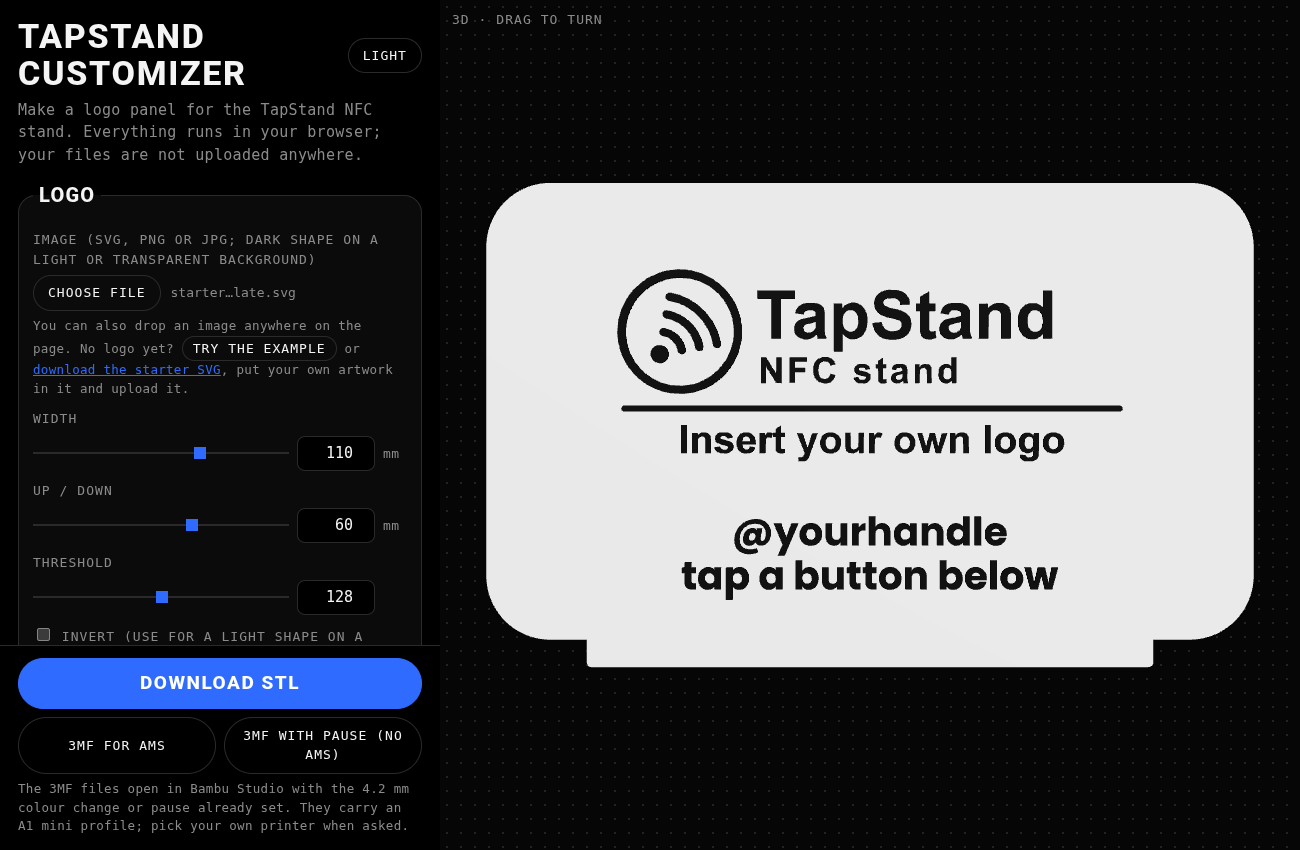
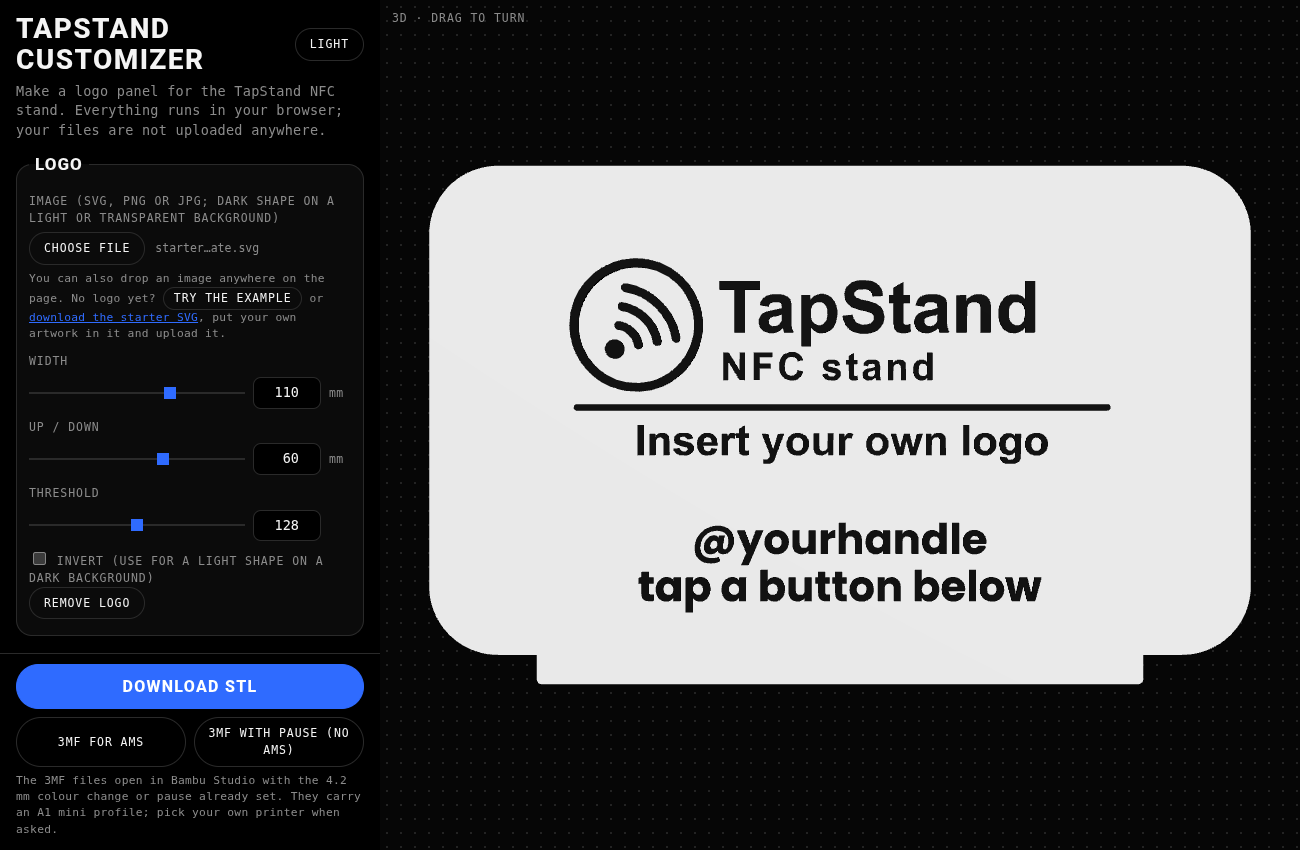
Smaller controls; corner ears on the panel 3MF so the corners do not lift

diff --git a/index.html b/index.html
@@ -16,29 +16,29 @@
   :root[data-theme=light] { color-scheme: light; --bg: #f4f4f1; --card: #fff; --line: #d8d8d3; --text: #0a0a0a; --muted: #6b6b6b;
           --accent: #1f5cff; --on-accent: #fff; --err: #c4001d; --warn: #8a5300; --scene: #8d949b; --dot: #7c838a; }   /* a grey scene, so a white panel shows */
   * { box-sizing: border-box; }
-  body { margin: 0; font: 15px/1.5 ui-monospace, 'SF Mono', Menlo, Consolas, monospace; letter-spacing: .02em; color: var(--text); background: var(--bg); }
+  body { margin: 0; font: 13.5px/1.45 ui-monospace, 'SF Mono', Menlo, Consolas, monospace; letter-spacing: .02em; color: var(--text); background: var(--bg); }
   /* Desktop: the form scrolls in its own cell; the bar with errors, warnings and Download stays under it. */
-  main { display: grid; grid-template: minmax(0, 1fr) auto / minmax(340px, 440px) 1fr; height: 100vh; height: 100dvh; }
-  form { padding: 18px 18px 0; overflow: auto; }
-  #bar { grid-area: 2 / 1; padding: 12px 18px 14px; background: var(--bg); border-top: 1px solid var(--line); max-height: 42vh; overflow: auto; }
+  main { display: grid; grid-template: minmax(0, 1fr) auto / minmax(300px, 380px) 1fr; height: 100vh; height: 100dvh; }
+  form { padding: 14px 16px 0; overflow: auto; }
+  #bar { grid-area: 2 / 1; padding: 10px 16px 12px; background: var(--bg); border-top: 1px solid var(--line); max-height: 42vh; overflow: auto; }
   #bar p, #bar ul { margin: 0; }
   #bar p:not(:empty), #bar ul:not(:empty) { margin-bottom: 8px; }
   .top { display: flex; align-items: center; justify-content: space-between; gap: 8px; }
   h1, legend, summary { font-family: Roboto, system-ui, sans-serif; text-transform: uppercase; }
-  h1 { font-size: 34px; font-weight: 800; letter-spacing: .05em; margin: 0; line-height: 1.1; }
+  h1 { font-size: 28px; font-weight: 800; letter-spacing: .05em; margin: 0; line-height: 1.1; }
   .intro { color: var(--muted); margin: 6px 0 0; }
   a { color: var(--accent); }
-  fieldset, details { border: 1px solid var(--line); border-radius: 18px; background: var(--card); margin: 14px 0; padding: 10px 14px 12px; }
-  legend { padding: 0 6px; font-size: 20px; font-weight: 800; letter-spacing: .06em; }
-  label { display: block; margin: 10px 0 0; font-size: 13px; text-transform: uppercase; letter-spacing: .08em; color: var(--muted); }
+  fieldset, details { border: 1px solid var(--line); border-radius: 16px; background: var(--card); margin: 12px 0; padding: 8px 12px 10px; }
+  legend { padding: 0 6px; font-size: 17px; font-weight: 800; letter-spacing: .06em; }
+  label { display: block; margin: 8px 0 0; font-size: 11.5px; text-transform: uppercase; letter-spacing: .08em; color: var(--muted); }
   input[type=text], select, textarea { display: block; width: 100%; margin-top: 4px; padding: 8px 10px; border-radius: 10px;
     border: 1px solid var(--line); background: var(--bg); color: var(--text); font: inherit; text-transform: none; letter-spacing: 0; }
   textarea { resize: vertical; }
   input:focus-visible, select:focus-visible, textarea:focus-visible, button:focus-visible { outline: 2px solid var(--accent); outline-offset: 1px; }
   /* a slider row: name, slider, mm box, unit */
-  .f { display: grid; grid-template-columns: 1fr 78px 24px; align-items: center; gap: 8px; margin-top: 4px; }
-  .f span { grid-column: 1 / -1; font-size: 13px; text-transform: uppercase; letter-spacing: .08em; color: var(--muted); margin-top: 6px; }
-  .f i { font-style: normal; color: var(--muted); font-size: 13px; }
+  .f { display: grid; grid-template-columns: 1fr 68px 22px; align-items: center; gap: 8px; margin-top: 4px; }
+  .f span { grid-column: 1 / -1; font-size: 11.5px; text-transform: uppercase; letter-spacing: .08em; color: var(--muted); margin-top: 6px; }
+  .f i { font-style: normal; color: var(--muted); font-size: 11.5px; }
   input[type=number] { width: 100%; padding: 5px 6px; border: 1px solid var(--line); border-radius: 8px; background: var(--bg); color: var(--text);
     font: inherit; text-align: right; font-variant-numeric: tabular-nums; }
   input[type=range] { -webkit-appearance: none; appearance: none; width: 100%; height: 18px; background: transparent; margin: 0; cursor: pointer; }
@@ -49,14 +49,14 @@
   input[type=checkbox] { accent-color: var(--accent); }
   input[type=file] { display: block; margin-top: 6px; max-width: 100%; color: var(--muted); font: inherit; text-transform: none; letter-spacing: 0; }
   /* Buttons are pills: the main download is filled, the rest are outlined. */
-  button, input[type=file]::file-selector-button { font: inherit; text-transform: uppercase; letter-spacing: .08em; font-size: 13px; color: var(--text);
+  button, input[type=file]::file-selector-button { font: inherit; text-transform: uppercase; letter-spacing: .08em; font-size: 11.5px; color: var(--text);
     background: transparent; border: 1px solid var(--line); border-radius: 999px; padding: 7px 14px; cursor: pointer; }
   input[type=file]::file-selector-button { margin-right: 10px; }
   button:hover:not(:disabled), input[type=file]::file-selector-button:hover { border-color: var(--text); }
   button:disabled { opacity: .4; cursor: not-allowed; }
-  #dl { font-family: Roboto, system-ui, sans-serif; font-weight: 800; font-size: 19px; width: 100%; padding: 10px; background: var(--accent); border-color: var(--accent); color: var(--on-accent); }
+  #dl { font-family: Roboto, system-ui, sans-serif; font-weight: 800; font-size: 16px; width: 100%; padding: 10px; background: var(--accent); border-color: var(--accent); color: var(--on-accent); }
   #dl3 { display: flex; gap: 8px; margin: 8px 0 6px; }
-  #dl3 button { flex: 1; padding: 8px 6px; }
+  #dl3 button { flex: 1; padding: 7px 6px; }
   #theme { flex: none; }
   #cols { display: flex; gap: 20px; }
   #cols label { display: flex; align-items: center; gap: 8px; }
@@ -66,7 +66,8 @@
   small { color: var(--muted); display: block; margin-top: 6px; }
   small button { padding: 2px 10px; }
   small:empty { display: none; }
-  summary { font-size: 20px; font-weight: 800; letter-spacing: .06em; cursor: pointer; }
+  [hidden] { display: none !important; }   /* the styled file inputs would otherwise show the hidden font picker */
+  summary { font-size: 17px; font-weight: 800; letter-spacing: .06em; cursor: pointer; }
   details ol { margin: 10px 0 4px; padding-left: 20px; }
   details li { margin-bottom: 8px; }
   body.drop::after { content: 'Drop your logo here'; position: fixed; inset: 12px; z-index: 5; display: grid; place-items: center; font: 800 28px Roboto, system-ui, sans-serif;
@@ -76,7 +77,7 @@
   #note { color: var(--muted); }
   #view { grid-area: 1 / 2 / 3 / 3; position: relative; min-height: 0; background: radial-gradient(var(--dot) 1px, transparent 1.3px) 0 0 / 14px 14px, var(--scene); }
   #view canvas { position: absolute; inset: 0; width: 100%; height: 100%; display: block; }
-  .tip { position: absolute; left: 12px; top: 10px; z-index: 1; color: var(--muted); font-size: 13px; text-transform: uppercase; letter-spacing: .08em; pointer-events: none; }
+  .tip { position: absolute; left: 12px; top: 10px; z-index: 1; color: var(--muted); font-size: 11.5px; text-transform: uppercase; letter-spacing: .08em; pointer-events: none; }
   /* Narrow: the page scrolls (form, then preview) and the bar sticks to the bottom of the window. */
   @media (max-width: 760px) { main { display: block; height: auto; } #view { height: 60vh; } #bar { position: sticky; bottom: 0; } }
 </style>
@@ -103,7 +104,7 @@
 
     <fieldset>
       <legend>Text</legend>
-      <label>Your text, one or more lines <textarea id="text" placeholder="@yourhandle" rows="2" maxlength="400"></textarea></label>
+      <label>Your text, one or more lines <textarea id="text" placeholder="@yourhandle" rows="3" maxlength="400"></textarea></label>
       <label>Font
         <select id="font">
           <option value="vendor/fonts/Poppins-Bold.ttf">Poppins Bold</option>
@@ -400,14 +401,14 @@ $('dl').addEventListener('click', () => save(stl, hasRelief ? 'panel__white_then
 let settings3mf;
 async function save3mf(kind, name) {
   try {
-    const { project3mf } = await import('./threemf.js');
+    const { project3mf, cornerEars } = await import('./threemf.js');
     settings3mf ??= await (await fetch('bambu_settings.json')).json();
     const z = Math.round((P.BODY + P.STEP) * 100) / 100;
     // the two picked colours become the two filaments; anything but white-then-black gets the larger purge volume both ways
     const colours = [$('colBody').value.toUpperCase(), $('colDetail').value.toUpperCase()], m = settings3mf.flush_volumes_matrix;
     const settings = { ...settings3mf, filament_colour: colours, filament_multi_colour: colours };
     if (colours.join() !== settings3mf.filament_colour.join()) { const big = String(Math.max(+m[1], +m[2])); settings.flush_volumes_matrix = ['0', big, big, '0']; }
-    save(project3mf({ settings, objects: [{ name: 'panel', mesh, plate: 0, cx: 90, cy: 90 }], plates: [{ events: [{ z, kind }] }] }), name, 'model/3mf');
+    save(project3mf({ settings, objects: [{ name: 'panel', mesh, plate: 0, cx: 90, cy: 90, parts: [{ name: 'Corner ears (anti-lift, snap off after printing)', mesh: cornerEars(mesh) }] }], plates: [{ events: [{ z, kind }] }] }), name, 'model/3mf');
   } catch (e) { console.error(e); $('buildErr').textContent = 'The 3MF file could not be made. The STL download still works.'; }
 }
 $('dlAms').addEventListener('click', () => save3mf('colour', 'panel__AMS_colour_change_at_4.2mm.3mf'));

diff --git a/threemf.js b/threemf.js
@@ -62,6 +62,29 @@ export function stlToMesh(u8) {
   return { positions: new Float32Array(positions), indices };
 }
 
+// "Mouse ears": a thin disc (radius r, h tall) on each corner of the part's footprint, so the corners do not
+// lift off the bed. Each disc is centred on the footprint point nearest a corner of the bounding box.
+export function cornerEars({ positions: v }, r = 8, h = 0.4, n = 48) {
+  let x0 = Infinity, x1 = -Infinity, y0 = Infinity, y1 = -Infinity, z0 = Infinity;
+  for (let i = 0; i < v.length; i += 3) { x0 = Math.min(x0, v[i]); x1 = Math.max(x1, v[i]); y0 = Math.min(y0, v[i + 1]); y1 = Math.max(y1, v[i + 1]); z0 = Math.min(z0, v[i + 2]); }
+  const positions = [], indices = [];
+  for (const [cx, cy] of [[x0, y0], [x1, y0], [x0, y1], [x1, y1]]) {
+    let best = Infinity, ex = 0, ey = 0;
+    for (let i = 0; i < v.length; i += 3) if (v[i + 2] < z0 + 0.01) {
+      const d = Math.hypot(v[i] - cx, v[i + 1] - cy);
+      if (d < best) { best = d; ex = v[i]; ey = v[i + 1]; }
+    }
+    const b = positions.length / 3;              // b, b+1: bottom and top centre; then n bottom/top rim pairs
+    positions.push(ex, ey, z0, ex, ey, z0 + h);
+    for (let k = 0; k < n; k++) { const a = 2 * Math.PI * k / n, x = ex + r * Math.cos(a), y = ey + r * Math.sin(a); positions.push(x, y, z0, x, y, z0 + h); }
+    for (let k = 0; k < n; k++) {
+      const lo = b + 2 + 2 * k, hi = lo + 1, lo2 = b + 2 + 2 * ((k + 1) % n), hi2 = lo2 + 1;
+      indices.push(b, lo2, lo, b + 1, hi, hi2, lo, lo2, hi2, lo, hi2, hi);
+    }
+  }
+  return { positions: new Float32Array(positions), indices: new Uint32Array(indices) };
+}
+
 const esc = s => String(s).replace(/&/g, '&amp;').replace(/"/g, '&quot;').replace(/</g, '&lt;').replace(/>/g, '&gt;');
 const num = v => String(Math.round(v * 1e5) / 1e5);
 const uuid = (a, b) => `${String(a).padStart(8, '0')}-0000-4000-8000-${String(b).padStart(12, '0')}`;
@@ -74,31 +97,38 @@ export function plateOrigin(i, n, bed) {
   return [(i % cols) * bed * 1.2, -Math.floor(i / cols) * bed * 1.2 || 0];   // || 0 turns -0 into 0
 }
 
-// objects: [{ name, mesh: {positions, indices}, plate: 0-based, cx, cy, filament?: 1|2, settings?: {key: value} }]
+// objects: [{ name, mesh: {positions, indices}, plate: 0-based, cx, cy, filament?: 1|2, settings?: {key: value}, parts? }]
 //          cx, cy = where the centre of the object's footprint goes on its plate (mm from the plate corner).
+//          parts = [{ name, mesh }] more meshes in the same object, kept where they are relative to `mesh`
+//          (in Bambu Studio they show under the object and can be deleted on their own).
 //          settings = print settings that apply to this object only (for example sparse_infill_density).
 // plates:  [{ events: [{ z, kind: 'pause' | 'colour' }] }]   z = top of the first layer printed after the event.
 // settings: a complete Bambu Studio project_settings object (see bambu_settings.json).
 export function project3mf({ objects, plates, settings, bed = 180, deflate }) {
   const files = [], items = [], rels = [], resources = [], conf = [], plateObjs = plates.map(() => []);
+  let extraId = 2 * objects.length;                 // ids for the extra parts, after every object's own two
   objects.forEach((ob, k) => {
-    const meshId = 2 * k + 1, objId = 2 * k + 2, v = ob.mesh.positions, t = ob.mesh.indices;
+    const objId = 2 * k + 2, parts = [{ name: ob.name, mesh: ob.mesh }, ...(ob.parts || [])].map((p, j) => ({ ...p, id: j ? ++extraId : 2 * k + 1 }));
     const lo = [Infinity, Infinity, Infinity], hi = [-Infinity, -Infinity, -Infinity];
-    for (let i = 0; i < v.length; i++) { lo[i % 3] = Math.min(lo[i % 3], v[i]); hi[i % 3] = Math.max(hi[i % 3], v[i]); }
+    for (const { mesh: { positions: v } } of parts)
+      for (let i = 0; i < v.length; i++) { lo[i % 3] = Math.min(lo[i % 3], v[i]); hi[i % 3] = Math.max(hi[i % 3], v[i]); }
     const [px, py] = plateOrigin(ob.plate, plates.length, bed);
     const tx = px + ob.cx - (lo[0] + hi[0]) / 2, ty = py + ob.cy - (lo[1] + hi[1]) / 2, tz = -lo[2];
-    let xml = `${XML}<model ${NS}>\n <metadata name="BambuStudio:3mfVersion">1</metadata>\n <resources>\n  <object id="${meshId}" p:UUID="${uuid(meshId, 1)}" type="model">\n   <mesh>\n    <vertices>\n`;
-    const chunks = [xml];
-    for (let i = 0; i < v.length; i += 3) chunks.push(`     <vertex x="${num(v[i])}" y="${num(v[i + 1])}" z="${num(v[i + 2])}"/>\n`);
-    chunks.push('    </vertices>\n    <triangles>\n');
-    for (let i = 0; i < t.length; i += 3) chunks.push(`     <triangle v1="${t[i]}" v2="${t[i + 1]}" v3="${t[i + 2]}"/>\n`);
-    chunks.push('    </triangles>\n   </mesh>\n  </object>\n </resources>\n <build/>\n</model>\n');
+    const chunks = [`${XML}<model ${NS}>\n <metadata name="BambuStudio:3mfVersion">1</metadata>\n <resources>\n`];
+    for (const { id, mesh: { positions: v, indices: t } } of parts) {
+      chunks.push(`  <object id="${id}" p:UUID="${uuid(id, 1)}" type="model">\n   <mesh>\n    <vertices>\n`);
+      for (let i = 0; i < v.length; i += 3) chunks.push(`     <vertex x="${num(v[i])}" y="${num(v[i + 1])}" z="${num(v[i + 2])}"/>\n`);
+      chunks.push('    </vertices>\n    <triangles>\n');
+      for (let i = 0; i < t.length; i += 3) chunks.push(`     <triangle v1="${t[i]}" v2="${t[i + 1]}" v3="${t[i + 2]}"/>\n`);
+      chunks.push('    </triangles>\n   </mesh>\n  </object>\n');
+    }
+    chunks.push(' </resources>\n <build/>\n</model>\n');
     const path = `/3D/Objects/object_${k + 1}.model`;
     files.push({ name: path.slice(1), data: chunks.join('') });
     rels.push(` <Relationship Target="${path}" Id="rel-${k + 1}" Type="http://schemas.microsoft.com/3dmanufacturing/2013/01/3dmodel"/>\n`);
-    resources.push(`  <object id="${objId}" p:UUID="${uuid(objId, 2)}" type="model">\n   <components>\n    <component p:path="${path}" objectid="${meshId}" p:UUID="${uuid(meshId, 3)}" transform="1 0 0 0 1 0 0 0 1 0 0 0"/>\n   </components>\n  </object>\n`);
+    resources.push(`  <object id="${objId}" p:UUID="${uuid(objId, 2)}" type="model">\n   <components>\n${parts.map(({ id }) => `    <component p:path="${path}" objectid="${id}" p:UUID="${uuid(id, 3)}" transform="1 0 0 0 1 0 0 0 1 0 0 0"/>\n`).join('')}   </components>\n  </object>\n`);
     items.push(`  <item objectid="${objId}" p:UUID="${uuid(objId, 4)}" transform="1 0 0 0 1 0 0 0 1 ${num(tx)} ${num(ty)} ${num(tz)}" printable="1"/>\n`);
-    conf.push(`  <object id="${objId}">\n    <metadata key="name" value="${esc(ob.name)}"/>\n    <metadata key="extruder" value="${ob.filament || 1}"/>\n${Object.entries(ob.settings || {}).map(([key, v]) => `    <metadata key="${esc(key)}" value="${esc(v)}"/>\n`).join('')}    <part id="${meshId}" subtype="normal_part">\n      <metadata key="name" value="${esc(ob.name)}"/>\n      <metadata key="matrix" value="1 0 0 0 0 1 0 0 0 0 1 0 0 0 0 1"/>\n    </part>\n  </object>\n`);
+    conf.push(`  <object id="${objId}">\n    <metadata key="name" value="${esc(ob.name)}"/>\n    <metadata key="extruder" value="${ob.filament || 1}"/>\n${Object.entries(ob.settings || {}).map(([key, v]) => `    <metadata key="${esc(key)}" value="${esc(v)}"/>\n`).join('')}${parts.map(({ id, name }) => `    <part id="${id}" subtype="normal_part">\n      <metadata key="name" value="${esc(name)}"/>\n      <metadata key="matrix" value="1 0 0 0 0 1 0 0 0 0 1 0 0 0 0 1"/>\n    </part>\n`).join('')}  </object>\n`);
     plateObjs[ob.plate].push(objId);
   });
 
